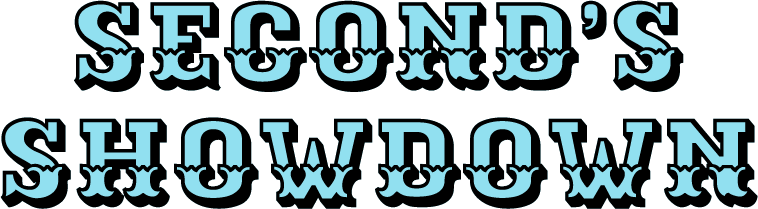
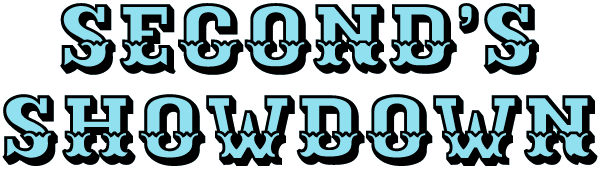
Making game 800x600

diff --git a/LudumDare27.Client/views/choosehand/chipStack.js b/LudumDare27.Client/views/choosehand/chipStack.js
@@ -3,6 +3,10 @@ var views;
     (function (choosehand) {
         var ChipStack = (function () {
             function ChipStack(root, column, color, numberOfChips) {
+                this.topOffset = -300;
+                this.activeOffset = 200;
+                this.inactiveOffset = 560;
+                this.bottomOffset = 700;
                 this.root = root;
                 this.color = color;
                 this.column = column;
@@ -24,8 +28,8 @@ var views;
                     var chip = document.createElement('div');
                     chip.classList.add('chip');
                     chip.classList.add(this.color);
-                    chip.style.left = (20 + 168 * this.column + 104 * (this.column)) + "px";
-                    chip.style.top = "-300px";
+                    chip.style.left = (20 + 128 * this.column + 82 * (this.column)) + "px";
+                    chip.style.top = this.topOffset + "px";
                     chip.style.zIndex = (i * 10) + "";
                     this.activeChips.push(chip);
                     this.root.appendChild(chip);
@@ -34,7 +38,7 @@ var views;
                 var that = this;
                 window.setTimeout(function () {
                     for (var j = 0; j < that.activeChips.length; j++) {
-                        that.activeChips[j].style.top = 260 + (j * -10) + "px";
+                        that.activeChips[j].style.top = that.activeOffset + (j * -10) + "px";
                     }
                 }, 200 * this.column);
 
@@ -45,11 +49,11 @@ var views;
 
             ChipStack.prototype.commit = function () {
                 for (var i = 0; i < this.activeChips.length; i++) {
-                    this.activeChips[i].style.top = "-300px";
+                    this.activeChips[i].style.top = this.topOffset + "px";
                 }
 
                 if (this.inactiveChips.length > 0) {
-                    this.peek(this.inactiveChips).style.top = "820px";
+                    this.peek(this.inactiveChips).style.top = this.bottomOffset + "px";
                 }
             };
 
@@ -59,11 +63,11 @@ var views;
 
             ChipStack.prototype.onActiveChipClicked = function () {
                 var _this = this;
-                this.peek(this.activeChips).style.top = "720px";
+                this.peek(this.activeChips).style.top = this.inactiveOffset + "px";
                 this.peek(this.activeChips).onclick = null;
                 if (this.inactiveChips.length > 0) {
                     this.peek(this.inactiveChips).onclick = null;
-                    this.peek(this.inactiveChips).style.top = "820px";
+                    this.peek(this.inactiveChips).style.top = this.bottomOffset + "px";
                 }
 
                 this.inactiveChips.push(this.peek(this.activeChips));
@@ -82,7 +86,7 @@ var views;
 
             ChipStack.prototype.onInactiveChipClicked = function () {
                 var _this = this;
-                this.peek(this.inactiveChips).style.top = 260 + (this.activeChips.length * -10) + "px";
+                this.peek(this.inactiveChips).style.top = this.activeOffset + (this.activeChips.length * -10) + "px";
                 this.peek(this.inactiveChips).onclick = null;
                 if (this.activeChips.length > 0) {
                     this.peek(this.activeChips).onclick = null;
@@ -92,7 +96,7 @@ var views;
                 this.inactiveChips.pop();
 
                 if (this.inactiveChips.length > 0) {
-                    this.peek(this.inactiveChips).style.top = "720px";
+                    this.peek(this.inactiveChips).style.top = this.inactiveOffset + "px";
                 }
 
                 this.peek(this.activeChips).onclick = function (event) {

diff --git a/LudumDare27.Client/views/choosehand/chipStack.ts b/LudumDare27.Client/views/choosehand/chipStack.ts
@@ -7,6 +7,10 @@ module views.choosehand {
 
         private activeChips: HTMLDivElement[];
         private inactiveChips: HTMLDivElement[];
+        private topOffset: number = -300;
+        private activeOffset: number = 200;
+        private inactiveOffset: number = 560;
+        private bottomOffset: number = 700;
 
         constructor(root: HTMLElement, column: number, color: string, numberOfChips: number) {
             this.root = root;
@@ -30,8 +34,8 @@ module views.choosehand {
                 var chip: HTMLDivElement = document.createElement('div');
                 chip.classList.add('chip');
                 chip.classList.add(this.color);
-                chip.style.left = (20 + 168 * this.column + 104 * (this.column)) + "px";
-                chip.style.top = "-300px";
+                chip.style.left = (20 + 128 * this.column + 82 * (this.column)) + "px";
+                chip.style.top = this.topOffset + "px";
                 chip.style.zIndex = (i * 10) + "";
                 this.activeChips.push(chip);
                 this.root.appendChild(chip);
@@ -40,7 +44,7 @@ module views.choosehand {
             var that = this;
             window.setTimeout(function () {
                 for (var j = 0; j < that.activeChips.length; j++) {
-                    that.activeChips[j].style.top = 260 + (j * -10) + "px";
+                    that.activeChips[j].style.top = that.activeOffset + (j * -10) + "px";
                 }
             }, 200 * this.column);
 
@@ -51,11 +55,11 @@ module views.choosehand {
 
         public commit() {
             for (var i = 0; i < this.activeChips.length; i++) {
-                this.activeChips[i].style.top = "-300px";
+                this.activeChips[i].style.top = this.topOffset + "px";
             }
 
             if (this.inactiveChips.length > 0) {
-                this.peek(this.inactiveChips).style.top = "820px";
+                this.peek(this.inactiveChips).style.top = this.bottomOffset + "px";
             }
         }
 
@@ -64,11 +68,11 @@ module views.choosehand {
         }
 
         private onActiveChipClicked() {
-            this.peek(this.activeChips).style.top = "720px";
+            this.peek(this.activeChips).style.top = this.inactiveOffset + "px";
             this.peek(this.activeChips).onclick = null;
             if (this.inactiveChips.length > 0) {
                 this.peek(this.inactiveChips).onclick = null;
-                this.peek(this.inactiveChips).style.top = "820px";
+                this.peek(this.inactiveChips).style.top = this.bottomOffset + "px";
             }
 
             this.inactiveChips.push(this.peek(this.activeChips));
@@ -86,7 +90,7 @@ module views.choosehand {
         }
 
         private onInactiveChipClicked() {
-            this.peek(this.inactiveChips).style.top = 260 + (this.activeChips.length * -10) + "px";
+            this.peek(this.inactiveChips).style.top = this.activeOffset + (this.activeChips.length * -10) + "px";
             this.peek(this.inactiveChips).onclick = null;
             if (this.activeChips.length > 0)
             {
@@ -97,7 +101,7 @@ module views.choosehand {
             this.inactiveChips.pop();
 
             if (this.inactiveChips.length > 0) {
-                this.peek(this.inactiveChips).style.top = "720px";
+                this.peek(this.inactiveChips).style.top = this.inactiveOffset + "px";
             }
 
             this.peek(this.activeChips).onclick = (event) => {

diff --git a/LudumDare27.Client/styles/default.css b/LudumDare27.Client/styles/default.css
@@ -4,8 +4,8 @@
 
 #main-content {
     position: relative;
-    width: 1024px;
-    height: 768px;
+    width: 800px;
+    height: 600px;
     background: #488b97;
 }
 
@@ -26,33 +26,33 @@
 }
 
 #title-layer {
-    background: url('../images/title/background.png');
+    background: url('../images/title/background.jpg');
 }
 
 #title-layer .content {
     font-family: 'Ewert', cursive;
     text-align: center;
-    padding-top: 400px;
+    padding-top: 330px;
 }
 
 #title-layer .content h1 {
     font-family: 'Ewert', cursive;
-    font-size: 116px;
+    font-size: 91px;
     color: #91e0f0;
     background: url('../images/title/title.png') no-repeat;
     background-position: center;
-    height: 209px;
+    height: 170px;
     margin-bottom: 30px;
 }
 
 #title-layer button {
-    font-size: 48px;
+    font-size: 33px;
     color: #f6f325;
     background: none;
     border: none;
     transition: margin-top 0.1s ease-out;
-    width: 167px;
-    height: 39px;
+    width: 120px;
+    height: 30px;
     background: url('../images/title/start.png') no-repeat;
     background-position: center;
 }
@@ -66,19 +66,23 @@
 }
 
 #game-layer {
-    background: url('../images/chooseHand/background.png') no-repeat;
+    background: url('../images/chooseHand/background.jpg') no-repeat;
 }
 
 #duel-layer {
-    background: url('../images/duel/background.png');
+    background: url('../images/duel/background.jpg');
 }
 
 #duel-layer .table {
     background: white;
-    margin: 40px auto;
-    width: 944px;
+    margin: 10px auto;
+    width: 800px;
     font-family: 'Ewert', cursive;
     font-size: 24px;
+}
+
+#duel-layer .table td {
+    min-width: 60px;
 }
 
 #signed-in-as {
@@ -150,16 +154,16 @@
     bottom: 0;
     left: 0;
     right: 0;
-    clip: rect(0, 1024px, 768px, 0);
+    clip: rect(0, 800px, 600px, 0);
     overflow: hidden;
 }
 
 .chip {
     position: absolute;
     border-radius: 50%;
-    width: 160px;
-    height: 160px;
-    padding-top: 4px;
+    width: 125px;
+    height: 125px;
+    padding-top: 3px;
     text-align: center;
     border: 4px solid black;
     transition: margin-top 0.1s ease-out, top 0.5s ease-out;

diff --git a/LudumDare27.Client/default.htm b/LudumDare27.Client/default.htm
@@ -50,19 +50,19 @@
                         </div>
                     </div>
                     <div id="duel-layer" class="layer">
-                        <table class="table table-condensed">
+                        <table class="table table-condensed table-bordered">
                             <tr>
                                 <th></th>
-                                <th>1</th>
-                                <th>2</th>
-                                <th>3</th>
-                                <th>4</th>
-                                <th>5</th>
-                                <th>6</th>
-                                <th>7</th>
-                                <th>8</th>
-                                <th>9</th>
-                                <th>10</th>
+                                <th class="text-center">1</th>
+                                <th class="text-center">2</th>
+                                <th class="text-center">3</th>
+                                <th class="text-center">4</th>
+                                <th class="text-center">5</th>
+                                <th class="text-center">6</th>
+                                <th class="text-center">7</th>
+                                <th class="text-center">8</th>
+                                <th class="text-center">9</th>
+                                <th class="text-center">10</th>
                             </tr>
                             <tr>
                                 <th>Player 1</th>
